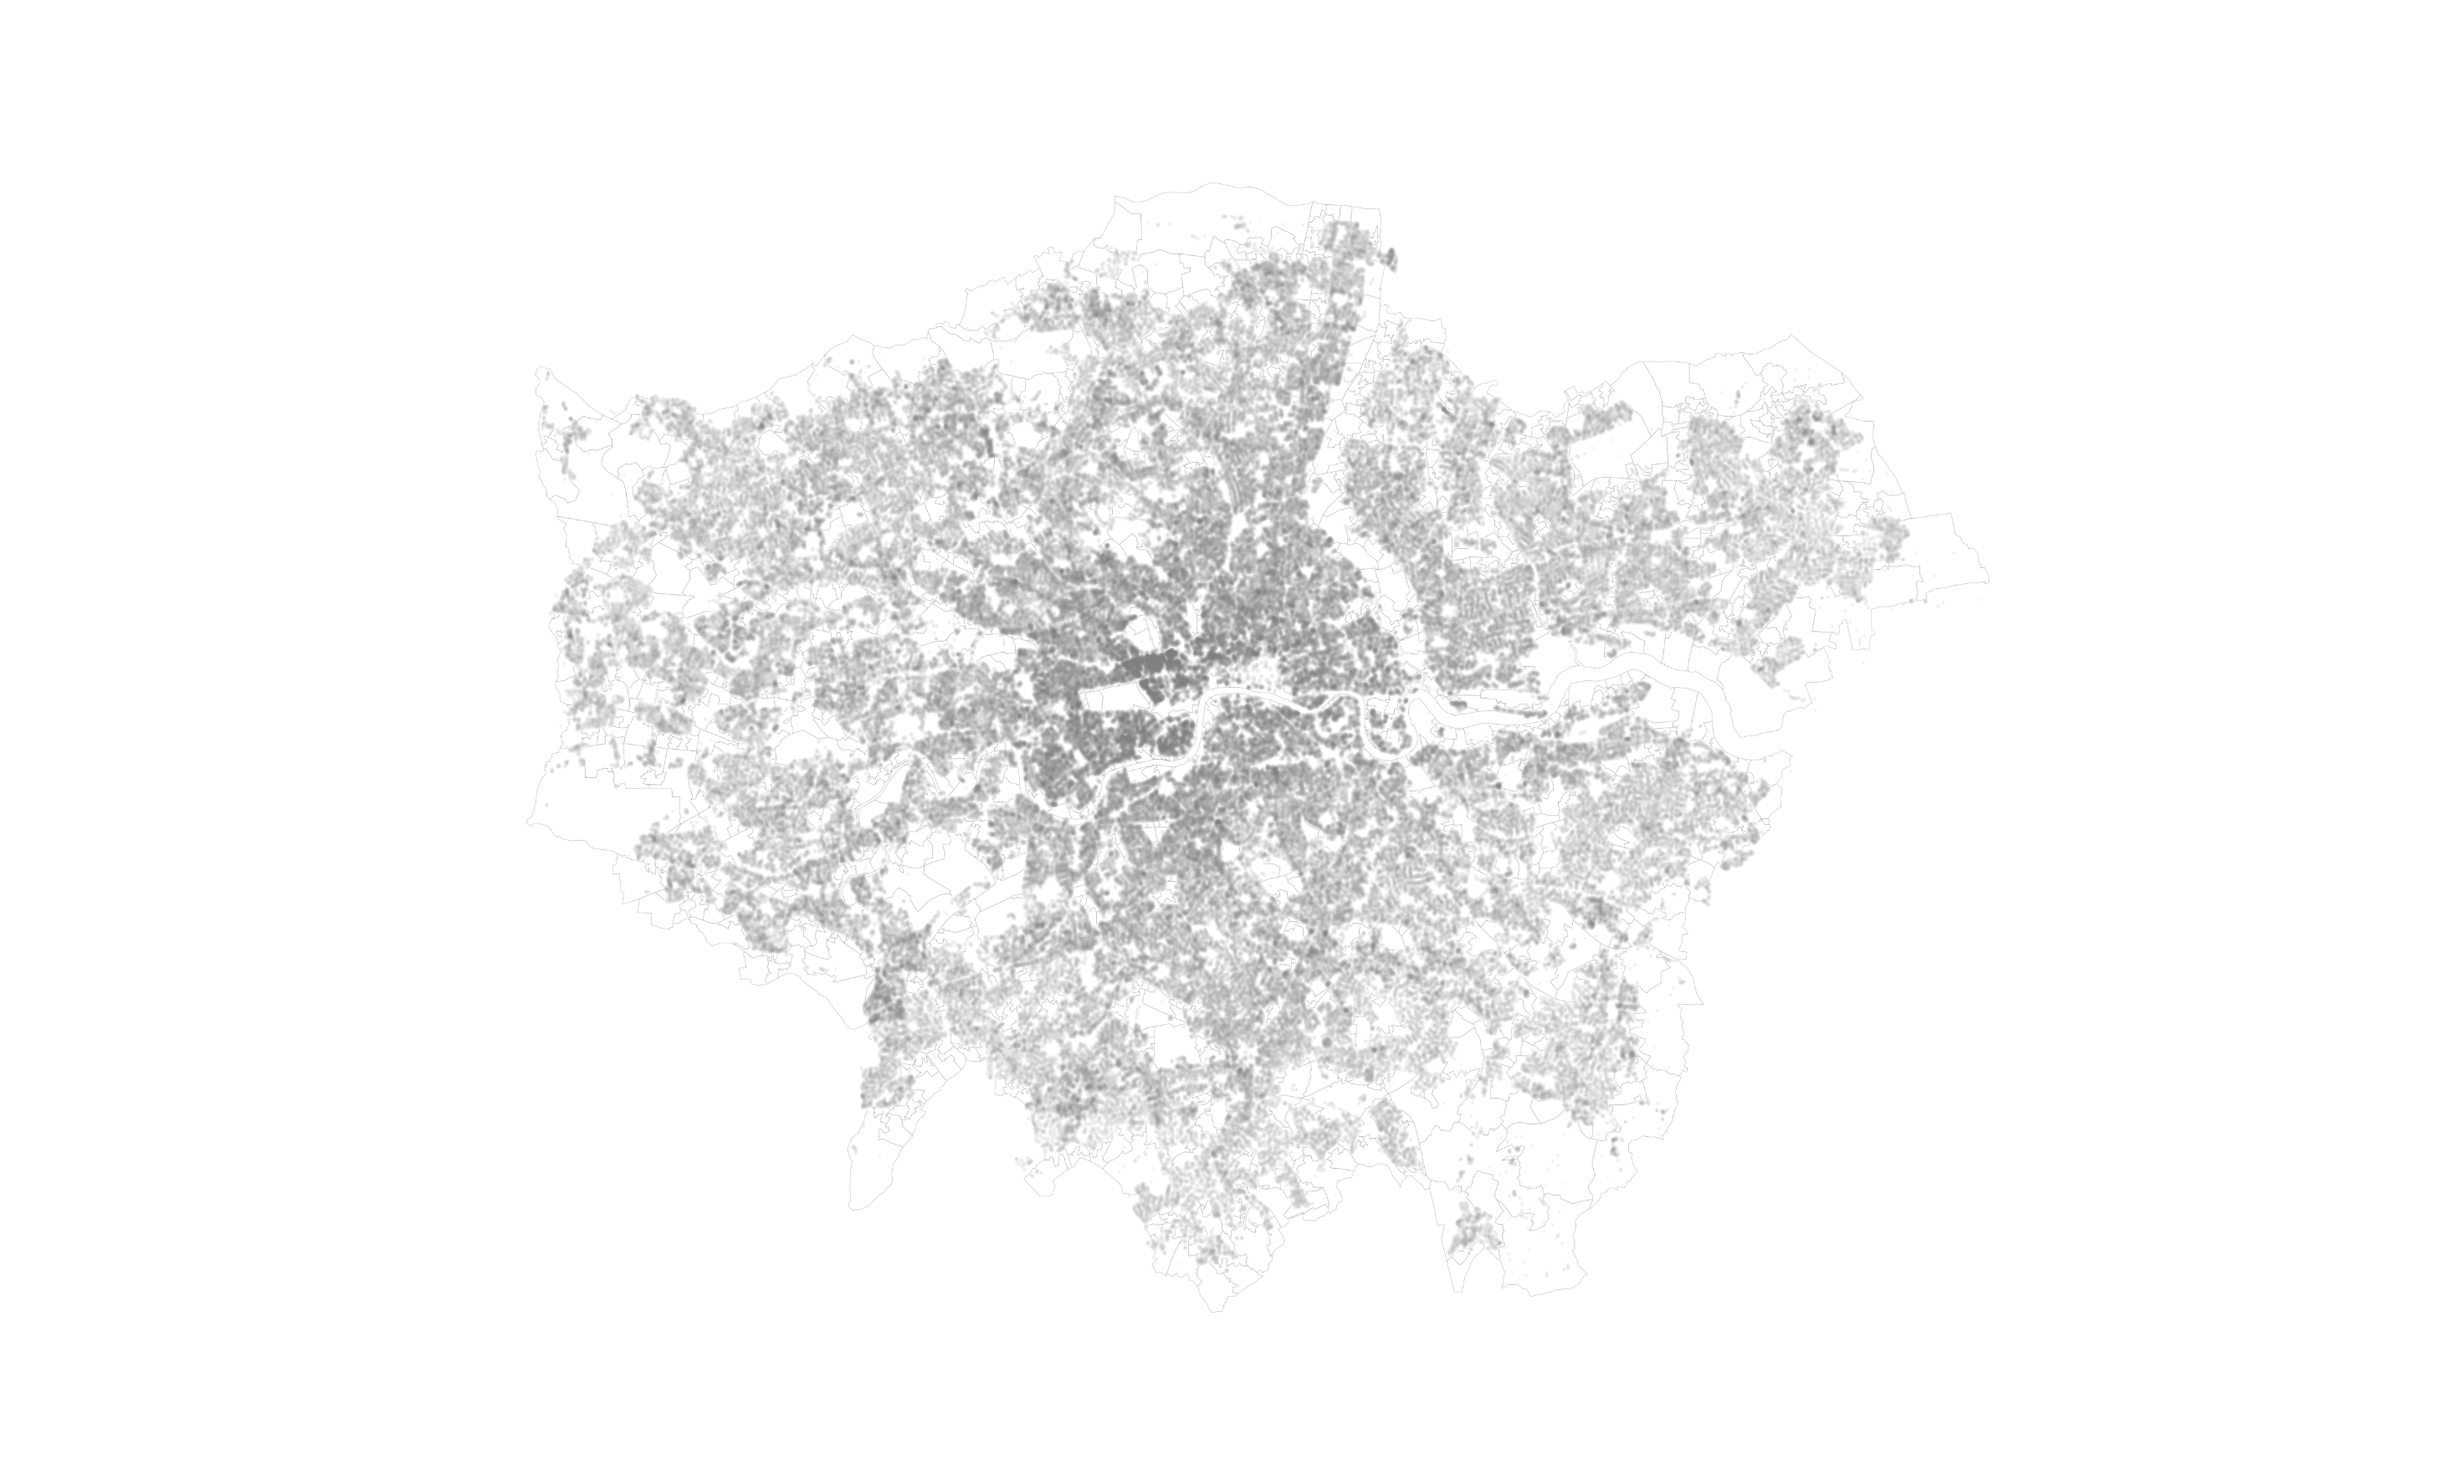
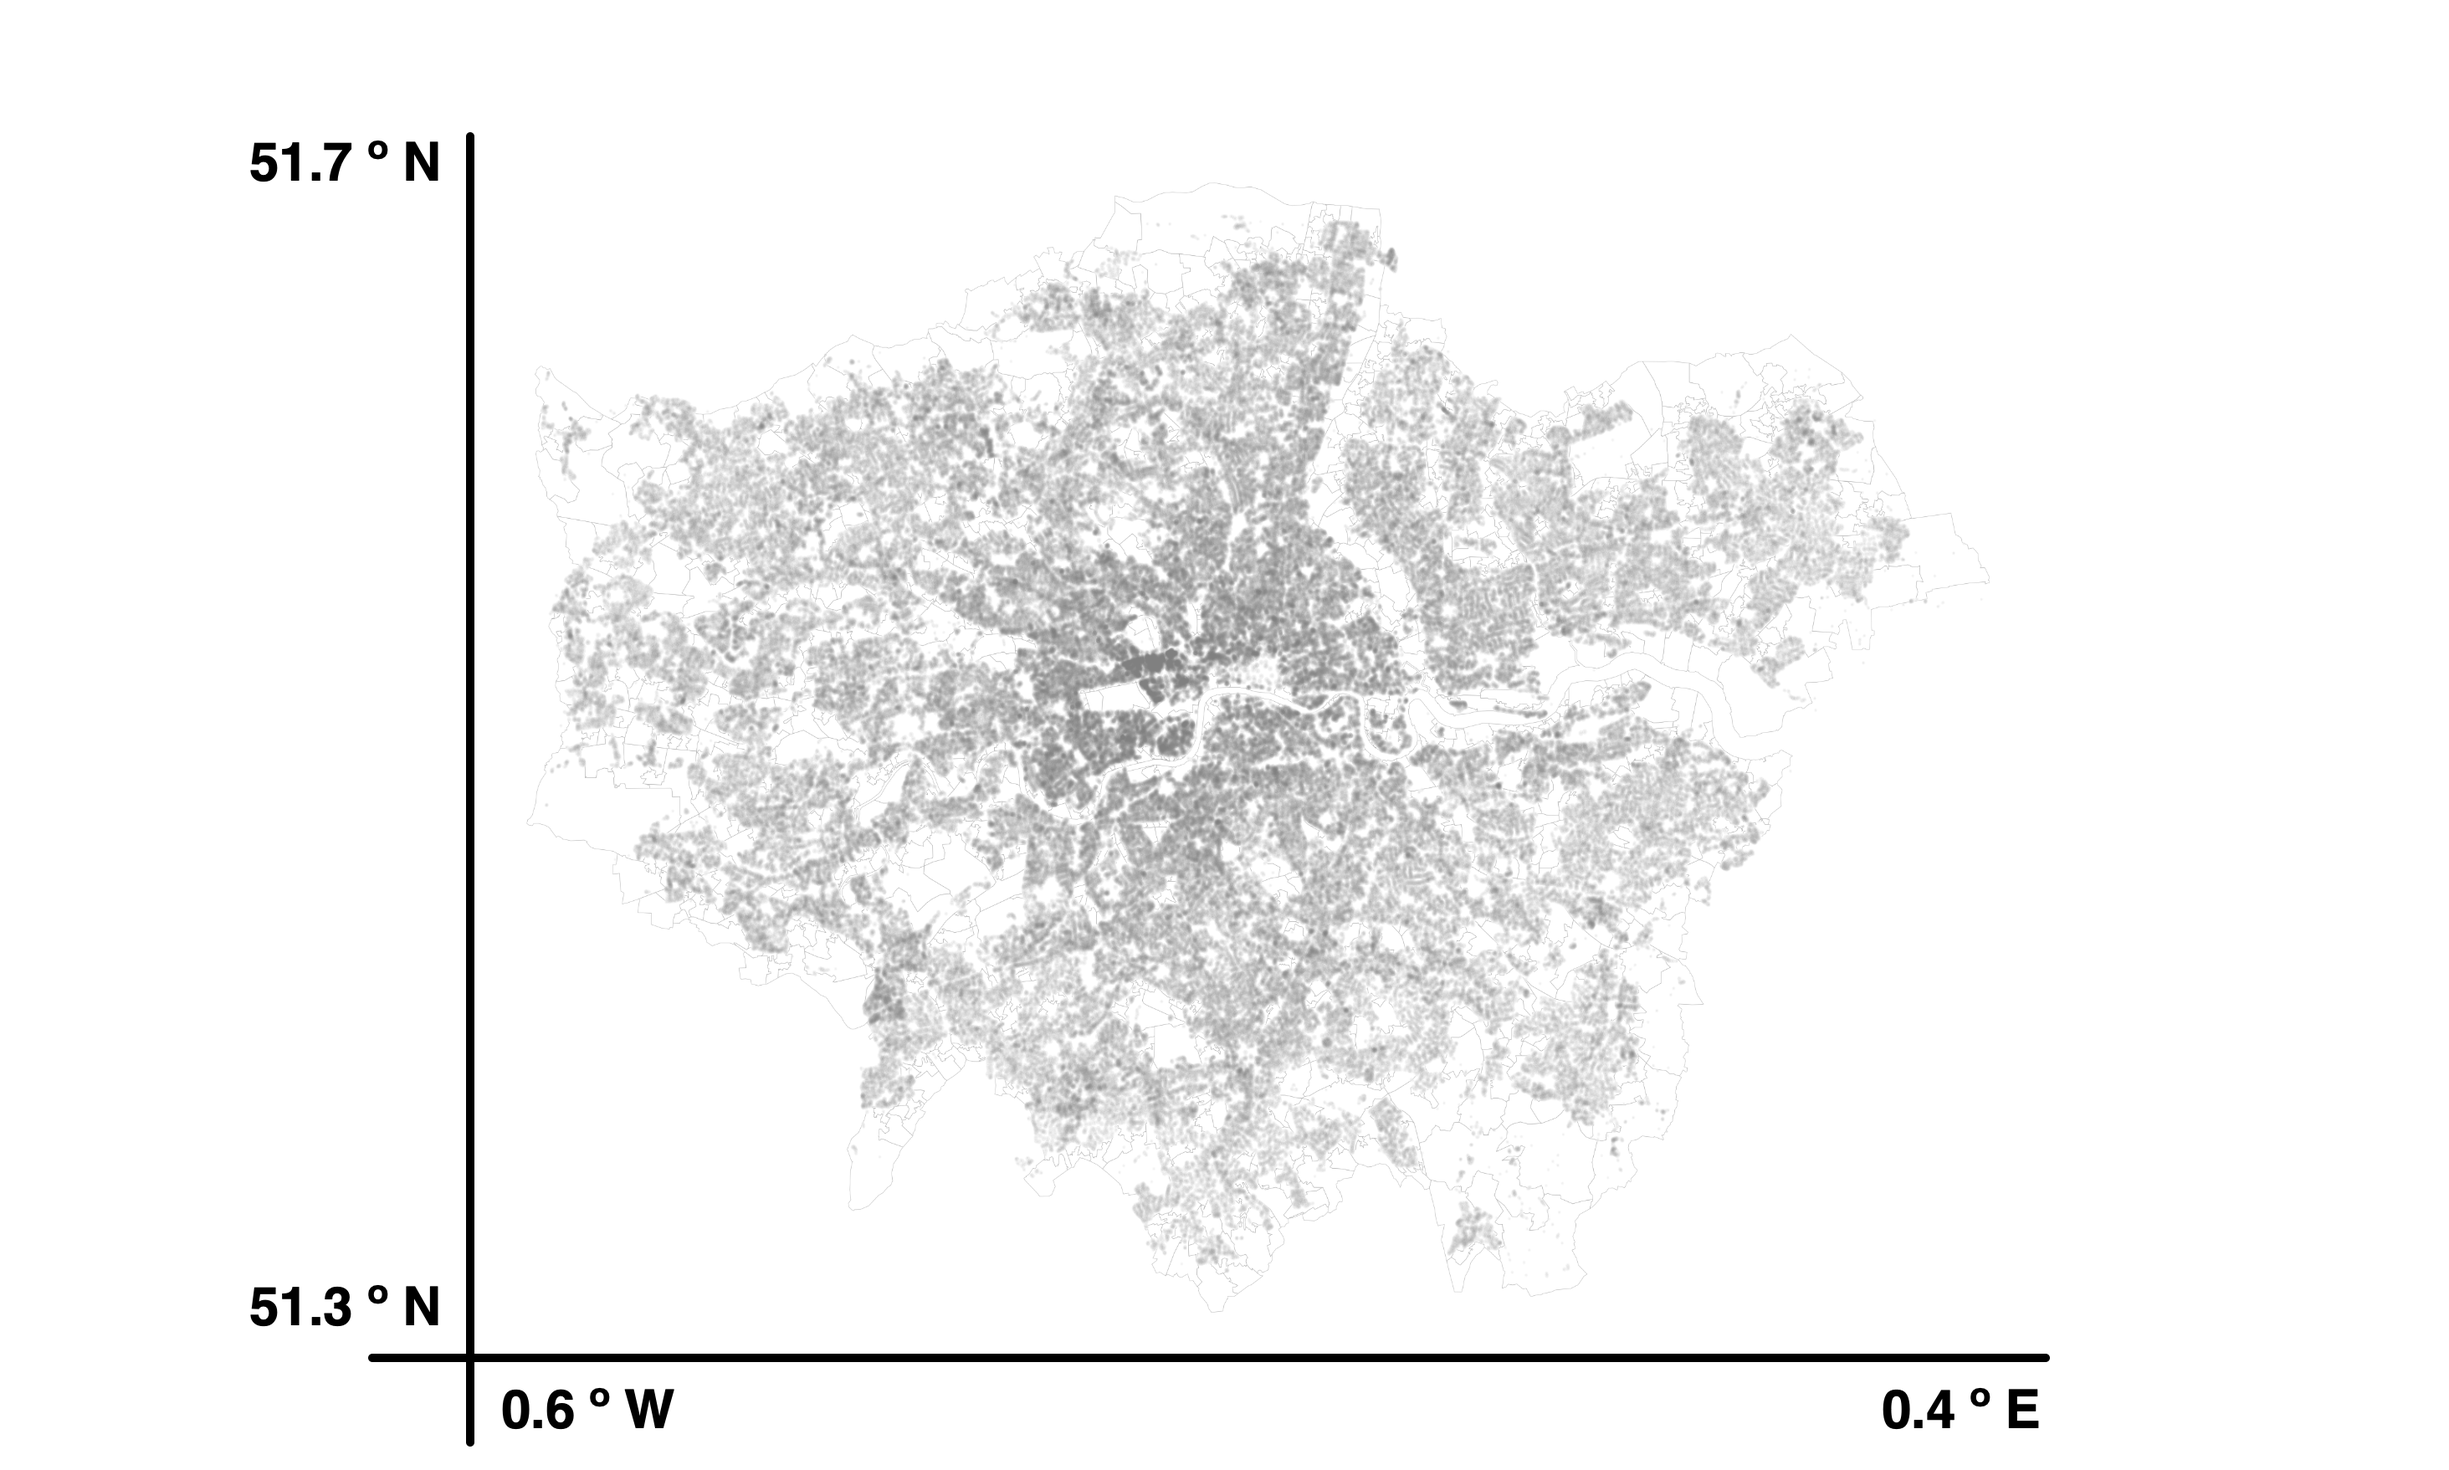
Readme Updated

Changed region(s): [[0.0933, 0.0922, 0.8394, 0.9835]]

diff --git a/readme.md b/readme.md
@@ -18,9 +18,13 @@ Data was storaged and processed in the secure High Performance Cluster from Impe
 ### GSV Dataset
 #### Stats
 
-Images per LSOA         |  Images with Latitude and Longitude
-:-------------------------:|:-------------------------:
-![](./img/dataset/number_images.png)  |  ![](./img/dataset/images_distribution.png)
+![](./img/dataset/number_images.png)
+
+Number of images per LSOA in Greater London.
+
+![](./img/dataset/images_distribution.png)
+
+Distriution by latitude and longitude of all image locations.
 
 Minimum | Maximum | Mean | Standard Deviation | Mode | Median
 :-------------------------:|:-------------------------:|:-------------------------:|:-------------------------:|:-------------------------:|:-------------------------:
